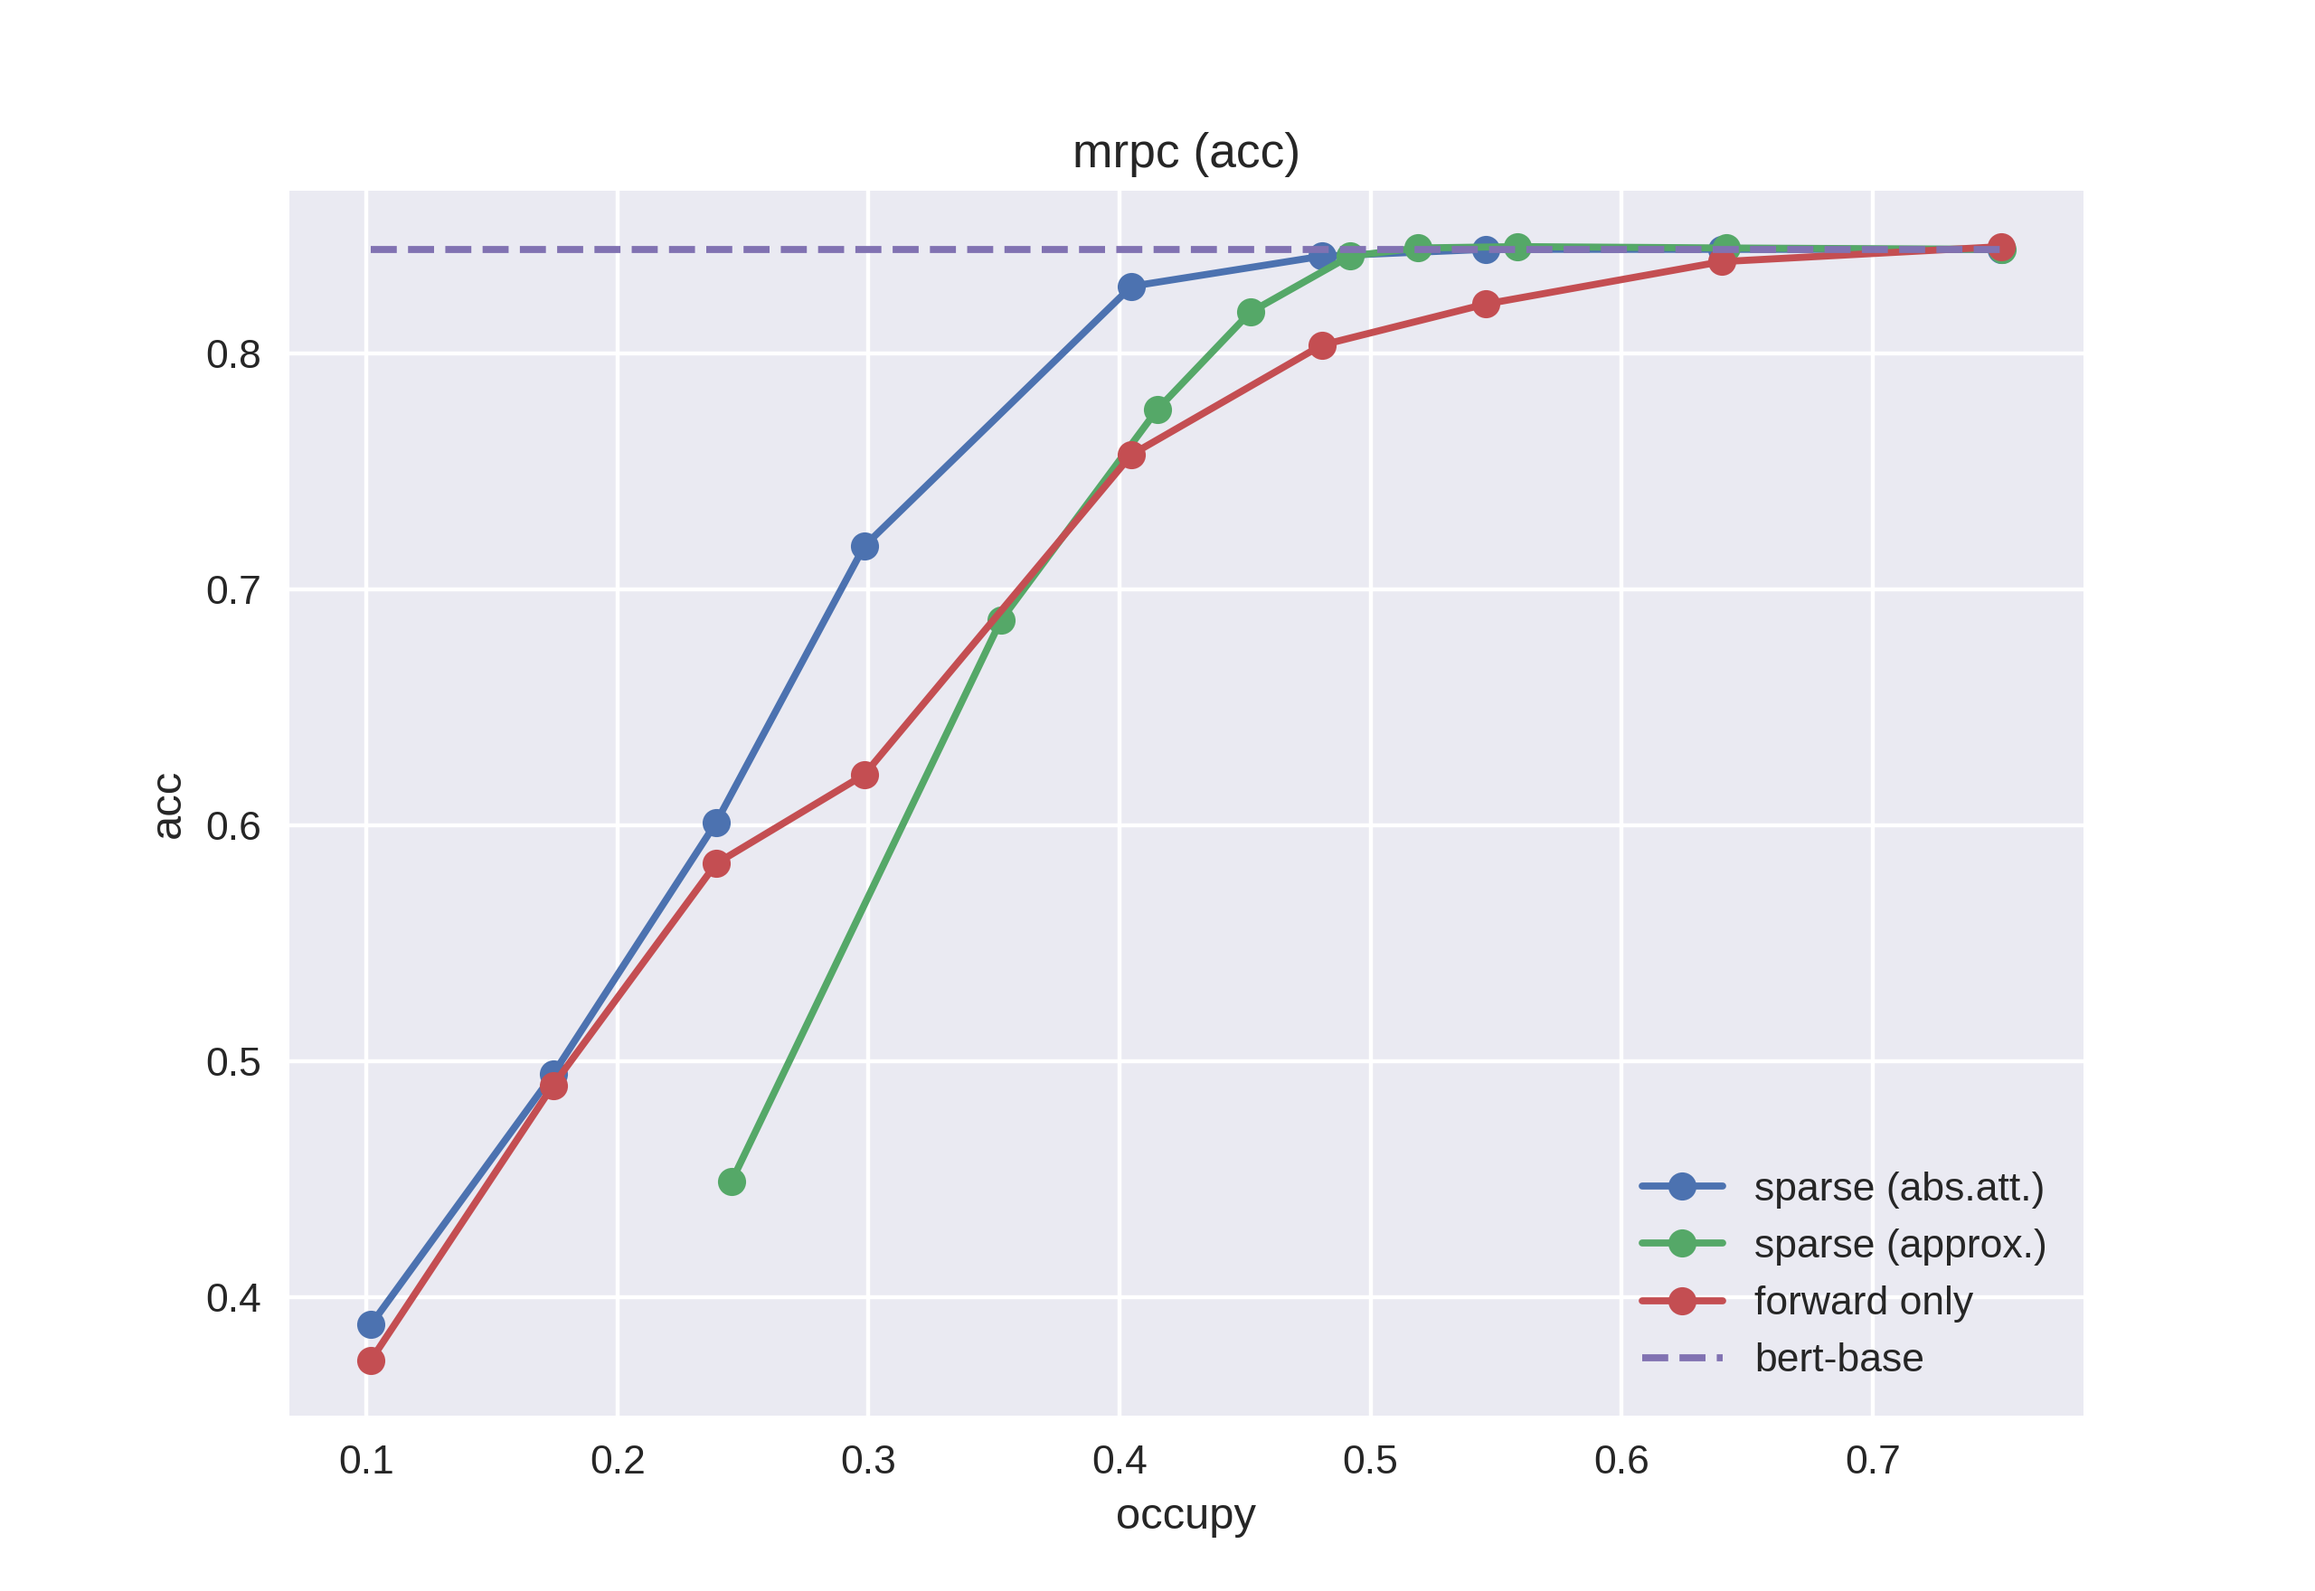
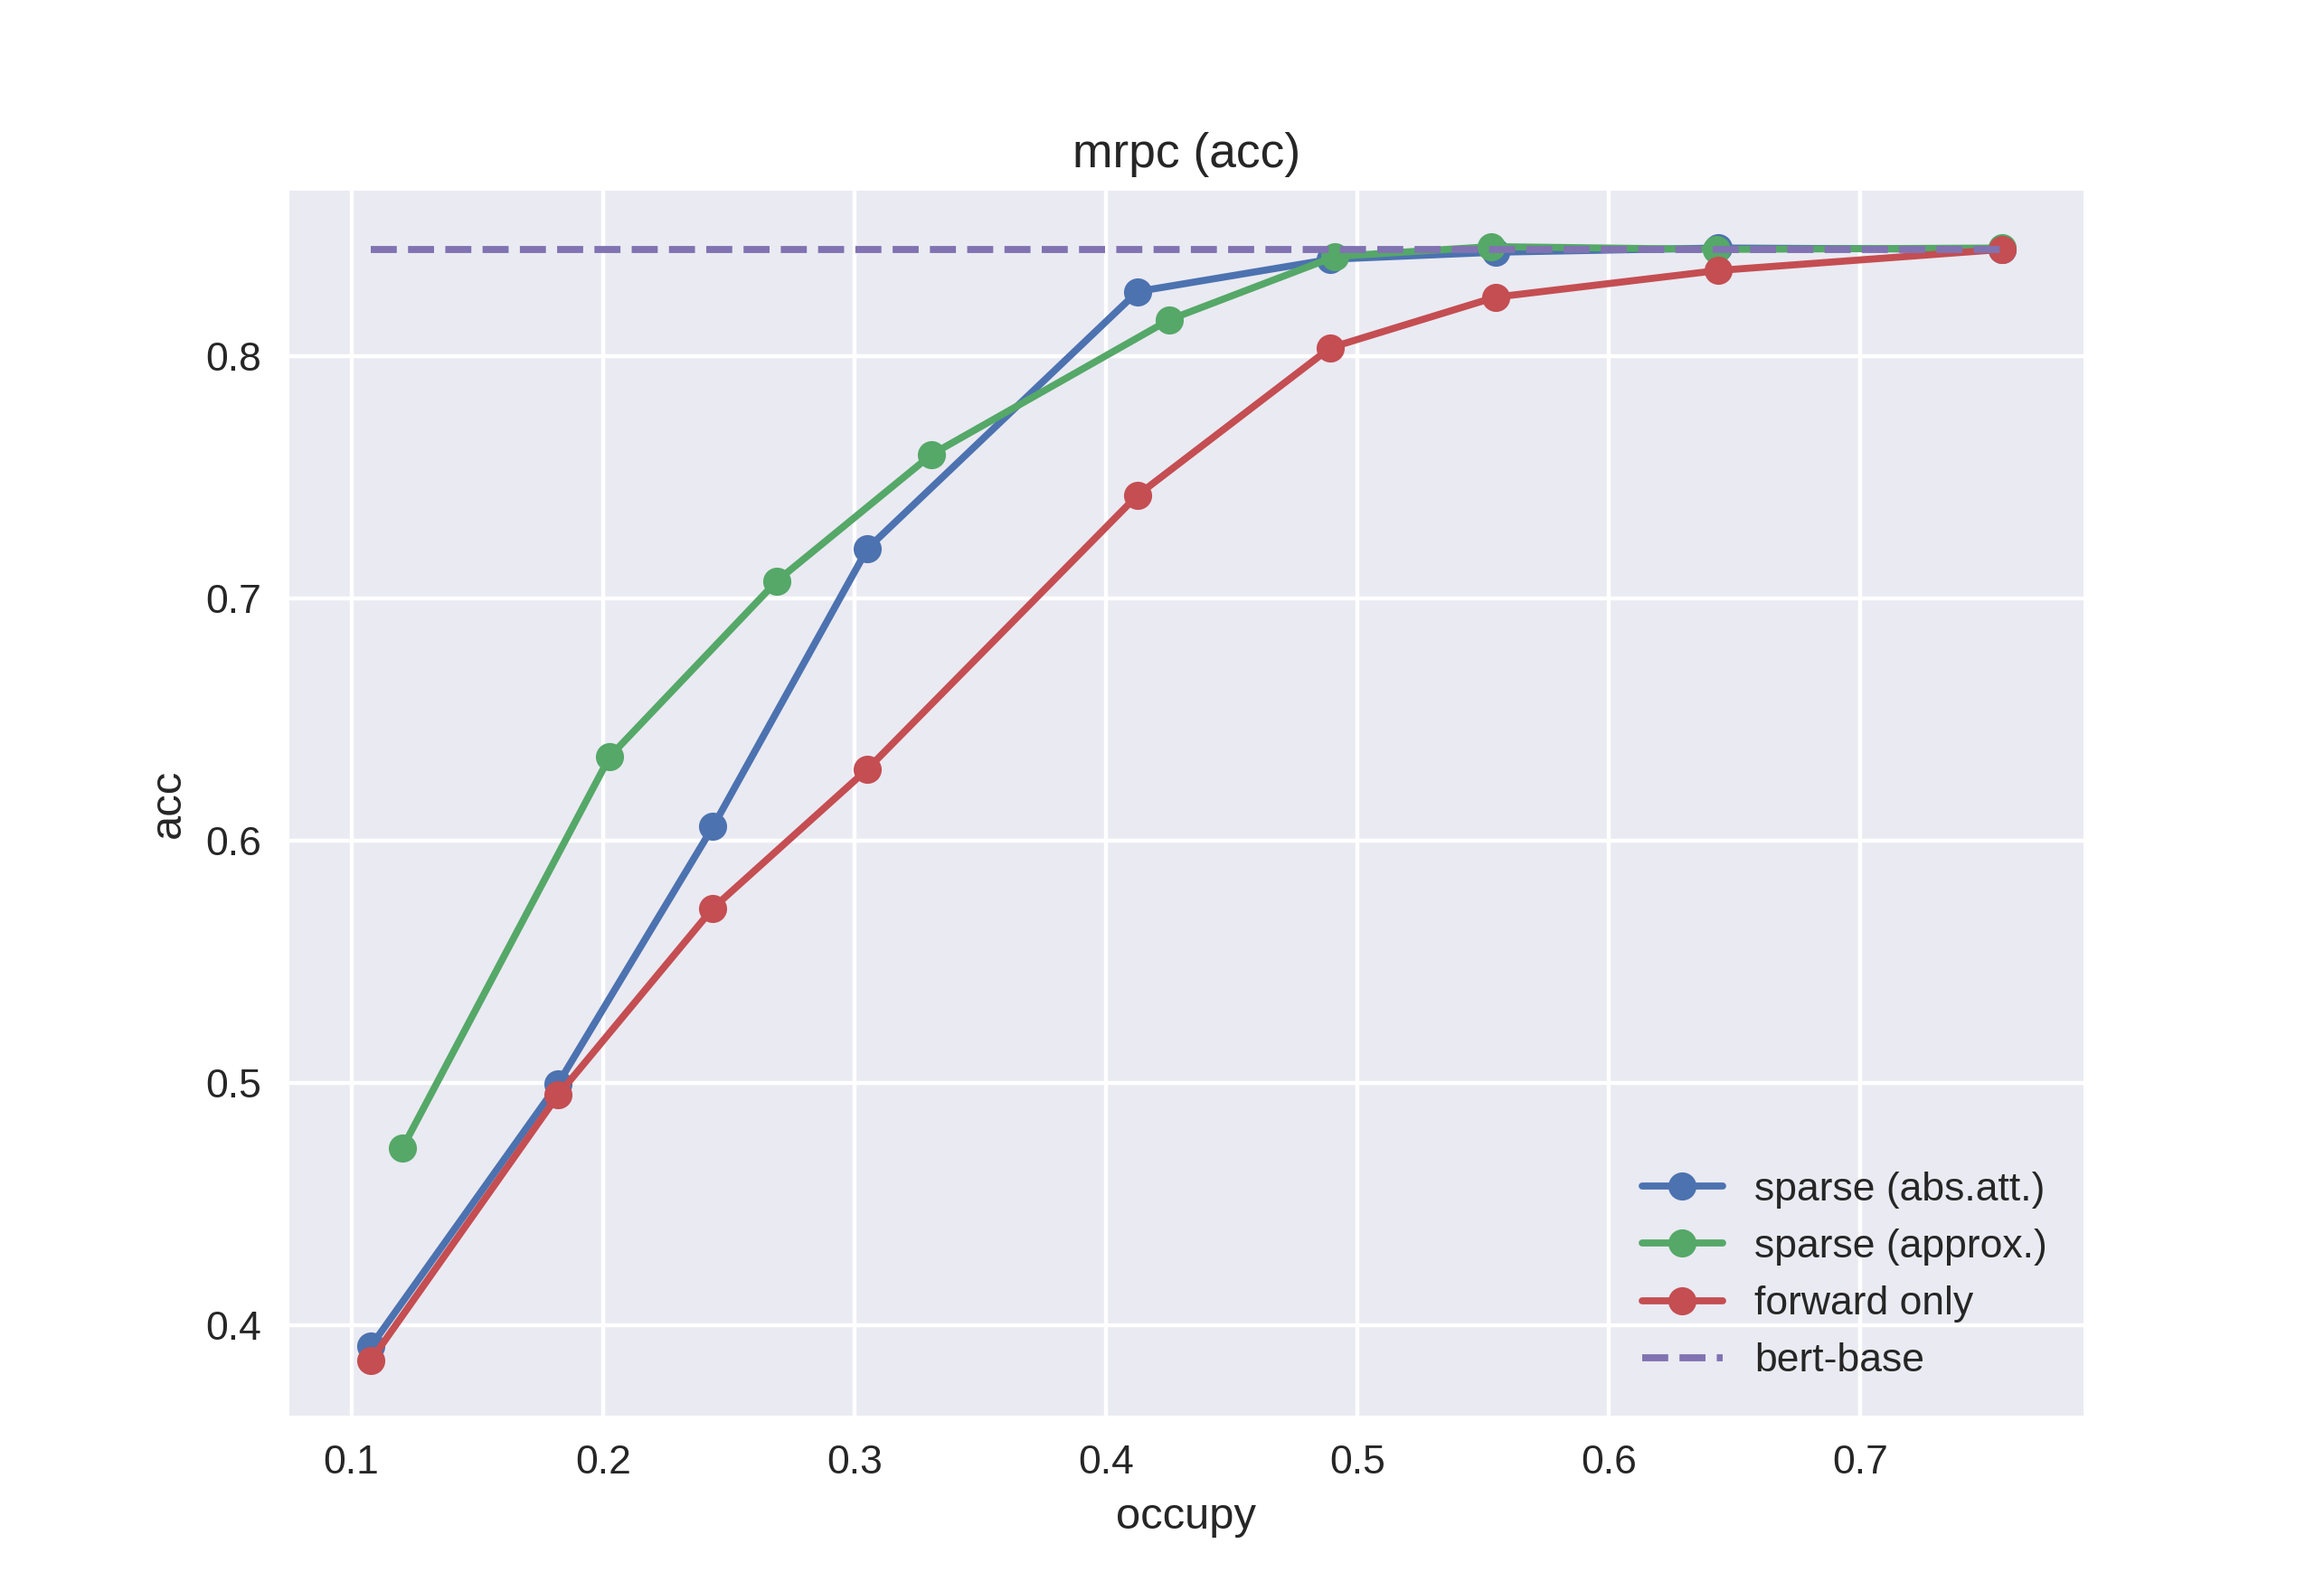
update absatt

diff --git a/plot_benchmark_glue_accum_absatt.py b/plot_benchmark_glue_accum_absatt.py
@@ -63,7 +63,7 @@ def run_exp():
 
         trainer.set_batch_size(8)
         target_ks = mask_occupy
-        ksx = [target_ks*0.5+((1-x/11.0)**1.5) * target_ks for x in range(12)]
+        ksx = [target_ks*0.5+((1-x/11.0)**1.0) * target_ks for x in range(12)]
         score_forward, _ = get_score(trainer.eval_sparse_model(ks=ksx, use_forward=True, show_message=False))
         print('forward', score_forward, '@', mask_occupy)
 

diff --git a/trainer/glue_base.py b/trainer/glue_base.py
@@ -49,7 +49,7 @@ task_to_keys = {
 task_to_epochs = {
     "cola": 100,
     "mnli": 4,
-    "mrpc": 2500,
+    "mrpc": 200,
     "qnli": 20,
     "qqp":  4,
     "rte":  30,
